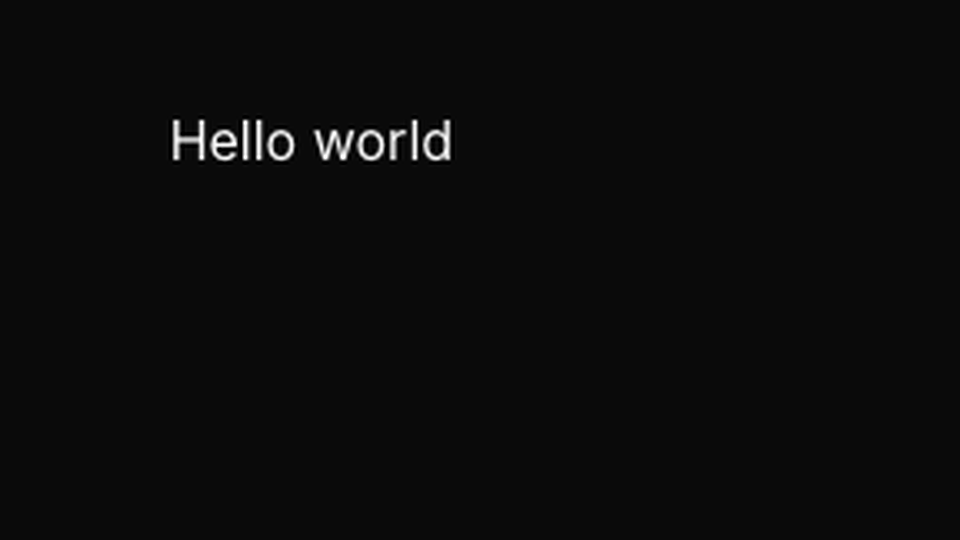
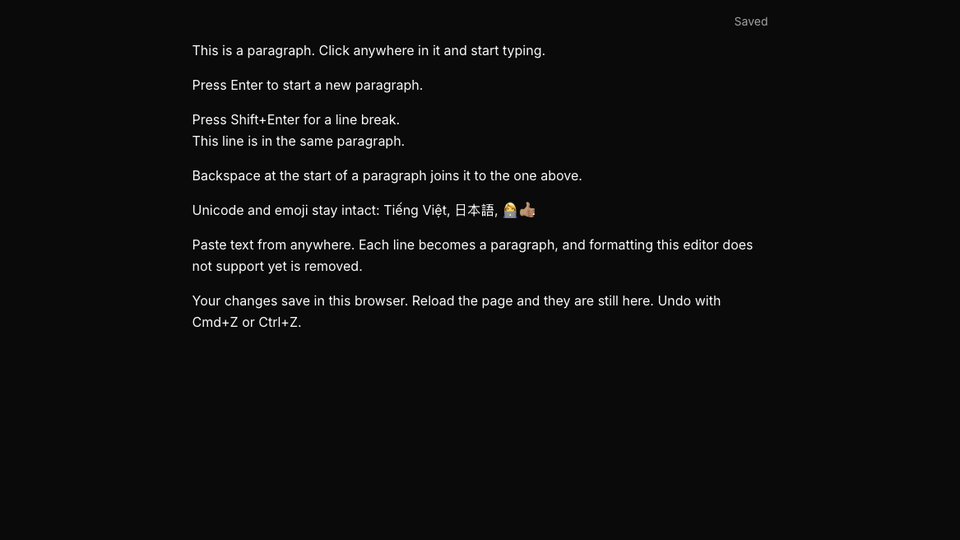
feat(blocks): seed notion-like editor demo with built behavior
The demo opens on seven paragraphs, each describing a behavior the editor
already has: paragraphs, Enter, Shift+Enter line breaks, Backspace merges,
Unicode and emoji, paste, and autosave with undo. Nothing unbuilt is
shown. The content applies only when this browser has no saved demo, so
existing edits are kept.

Top-level paragraphs are now spaced apart so a line break inside a
paragraph reads differently from a new paragraph. Block grid snapshots
are recaptured with the new content and padding.

diff --git a/packages/core/src/components/blocks/notion-like-editor/demo-document.test.ts b/packages/core/src/components/blocks/notion-like-editor/demo-document.test.ts
@@ -1,0 +1,78 @@
+import { describe, expect, test } from "bun:test";
+
+import { DEMO_DOCUMENT_VALUE } from "./demo-document";
+import { createEditorDocument } from "./editor-document";
+import { EDITOR_ELEMENT_RULES } from "./editor-document-schema";
+import { parseEditorDocument } from "./editor-document-validate";
+
+function isRecord(value: unknown): value is Record<string, unknown> {
+  return typeof value === "object" && value !== null && !Array.isArray(value);
+}
+
+function textOf(block: (typeof DEMO_DOCUMENT_VALUE)[number]): string {
+  return block.children.map((child) => child.text).join("");
+}
+
+function walk(value: unknown): void {
+  if (!isRecord(value)) {
+    return;
+  }
+
+  if (typeof value.text === "string" && !("children" in value)) {
+    expect(Object.keys(value)).toEqual(["text"]);
+    return;
+  }
+
+  if (typeof value.type === "string") {
+    expect(EDITOR_ELEMENT_RULES.some((rule) => rule.type === value.type)).toBe(true);
+  }
+
+  if (!Array.isArray(value.children)) {
+    return;
+  }
+
+  for (const child of value.children) {
+    walk(child);
+  }
+}
+
+describe("demo document", () => {
+  test("the demo document parses with no repairs", () => {
+    const parsed = parseEditorDocument(createEditorDocument("demo", DEMO_DOCUMENT_VALUE));
+
+    expect(parsed.status).toBe("ok");
+    if (parsed.status !== "ok") {
+      return;
+    }
+
+    expect(parsed.repairs).toEqual([]);
+  });
+
+  test("every demo block is an allowlisted paragraph", () => {
+    for (const block of DEMO_DOCUMENT_VALUE) {
+      walk(block);
+    }
+  });
+
+  test("demo text leaves contain only text", () => {
+    for (const block of DEMO_DOCUMENT_VALUE) {
+      for (const child of block.children) {
+        expect(Object.keys(child)).toEqual(["text"]);
+      }
+    }
+  });
+
+  test("demo paragraph ids are unique", () => {
+    const ids = DEMO_DOCUMENT_VALUE.map((block) => block.id);
+
+    expect(new Set(ids).size).toBe(ids.length);
+    expect(ids.every((id) => id.length > 0)).toBe(true);
+  });
+
+  test("the line-break paragraph contains one newline", () => {
+    const block = DEMO_DOCUMENT_VALUE.find((item) => item.id === "demo-break");
+    const text = block === undefined ? "" : textOf(block);
+
+    expect(text.match(/\n/g)).toEqual(["\n"]);
+  });
+});

diff --git a/packages/core/src/components/blocks/notion-like-editor/demo-document.ts b/packages/core/src/components/blocks/notion-like-editor/demo-document.ts
@@ -1,0 +1,49 @@
+import type { EditorValue } from "./editor-value";
+
+export const DEMO_DOCUMENT_VALUE = [
+  {
+    type: "p",
+    id: "demo-intro",
+    children: [{ text: "This is a paragraph. Click anywhere in it and start typing." }],
+  },
+  {
+    type: "p",
+    id: "demo-enter",
+    children: [{ text: "Press Enter to start a new paragraph." }],
+  },
+  {
+    type: "p",
+    id: "demo-break",
+    children: [
+      { text: "Press Shift+Enter for a line break.\nThis line is in the same paragraph." },
+    ],
+  },
+  {
+    type: "p",
+    id: "demo-merge",
+    children: [{ text: "Backspace at the start of a paragraph joins it to the one above." }],
+  },
+  {
+    type: "p",
+    id: "demo-unicode",
+    children: [{ text: "Unicode and emoji stay intact: Tiếng Việt, 日本語, 👩💻 👍🏽." }],
+  },
+  {
+    type: "p",
+    id: "demo-paste",
+    children: [
+      {
+        text: "Paste text from anywhere. Each line becomes a paragraph, and formatting this editor does not support yet is removed.",
+      },
+    ],
+  },
+  {
+    type: "p",
+    id: "demo-save",
+    children: [
+      {
+        text: "Your changes save in this browser. Reload the page and they are still here. Undo with Cmd+Z or Ctrl+Z.",
+      },
+    ],
+  },
+] satisfies EditorValue;

diff --git a/packages/core/src/components/blocks/notion-like-editor/editor-surface.tsx b/packages/core/src/components/blocks/notion-like-editor/editor-surface.tsx
@@ -3,6 +3,8 @@
 import type { ComponentProps } from "react";
 import { Plate, PlateContent } from "platejs/react";
 
+import { cn } from "@/lib/utils";
+
 import type { EditorValue } from "./editor-value";
 
 type EditorSurfaceProps = {
@@ -30,7 +32,8 @@ export function EditorSurface({
     >
       <PlateContent
         placeholder={readOnly ? undefined : placeholder}
-        className={className}
+        // Margin is between blocks. The first block's top stays put, so the empty-document placeholder stays aligned.
+        className={cn(className, "space-y-4")}
         renderPlaceholder={(placeholderProps) => (
           <span
             {...placeholderProps.attributes}

diff --git a/packages/core/src/components/blocks/notion-like-editor/notion-like-editor-demo.tsx b/packages/core/src/components/blocks/notion-like-editor/notion-like-editor-demo.tsx
@@ -2,6 +2,7 @@
 
 import { useSyncExternalStore } from "react";
 
+import { DEMO_DOCUMENT_VALUE } from "./demo-document";
 import type { EditorPersistenceAdapter } from "./editor-persistence";
 import { EditorDocumentSkeleton } from "./editor-document-skeleton";
 import { createLocalStorageAdapter } from "./local-storage-adapter";
@@ -33,5 +34,7 @@ export function NotionLikeEditorDemo() {
     );
   }
 
-  return <NotionLikeEditorBlock documentId="demo" adapter={adapter} />;
+  return (
+    <NotionLikeEditorBlock documentId="demo" adapter={adapter} initialValue={DEMO_DOCUMENT_VALUE} />
+  );
 }

diff --git a/scripts/llms/catalog.ts b/scripts/llms/catalog.ts
@@ -139,6 +139,7 @@ export const LLMS_CATALOG: readonly LlmsCatalogEntry[] = [
       "packages/core/src/components/blocks/notion-like-editor/ready-editor.tsx",
       "packages/core/src/components/blocks/notion-like-editor/persisted-editor.tsx",
       "packages/core/src/components/blocks/notion-like-editor/notion-like-editor-block.tsx",
+      "packages/core/src/components/blocks/notion-like-editor/demo-document.ts",
       "packages/core/src/components/blocks/notion-like-editor/notion-like-editor-demo.tsx",
       "apps/web/src/app/blocks/notion-like-editor/page.tsx",
     ],

diff --git a/apps/web/src/app/blocks/notion-like-editor/page.tsx b/apps/web/src/app/blocks/notion-like-editor/page.tsx
@@ -132,6 +132,10 @@ const BLOCK_FILES = [
     code: readSource(`${BLOCK_DIR}/notion-like-editor-block.tsx`),
   },
   {
+    path: "components/blocks/notion-like-editor/demo-document.ts",
+    code: readSource(`${BLOCK_DIR}/demo-document.ts`),
+  },
+  {
     path: "components/blocks/notion-like-editor/notion-like-editor-demo.tsx",
     code: readSource(`${BLOCK_DIR}/notion-like-editor-demo.tsx`),
   },

diff --git a/packages/core/src/components/layouts/blocks-section.tsx b/packages/core/src/components/layouts/blocks-section.tsx
@@ -37,7 +37,7 @@ const BLOCK_LIST: readonly BlockItem[] = [
     snapshot: {
       lightSrc: "/images/blocks/notion-like-editor-light.png",
       darkSrc: "/images/blocks/notion-like-editor-dark.png",
-      alt: "Notion-style document editor with a single empty paragraph",
+      alt: "Notion-style editor with paragraphs, a line break, and saved text",
     },
   },
 ];
